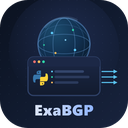
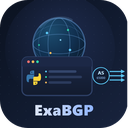
assets: 箭头改为从 AS 域发出，收拢为平行三路
- 新增 AS 域节点（圆形，标注 AS 65000）作为宣告起点
- 三条箭头收拢为平行同长，不再是散射状
- 控制台窗口略收窄，为 AS 节点与箭头让位

diff --git a/README.md b/README.md
@@ -172,4 +172,4 @@ docker run -d --name exabgp-v6 --network host \
 
 ---
 
-<sub>图标说明：地球经纬网格（区域 / 全球 IP 网段）+ 控制台窗口（WebUI，内含 Python 标识与待下发的路由条目）+ 右侧多条宣告箭头（逐条把 BGP UPDATE 播给 CE）+ 底部 ExaBGP 字标。源文件 `assets/icon.svg`，可直接用于文档、镜像标注与 favicon。</sub>
+<sub>图标说明：地球经纬网格（区域 / 全球 IP 网段）+ 控制台窗口（WebUI，内含 Python 标识与待下发的路由条目）+ `AS 65000` 域（箭头起点）+ 三条平行宣告箭头（逐条把 BGP UPDATE 播给 CE）+ 底部 ExaBGP 字标。源文件 `assets/icon.svg`，可直接用于文档、镜像标注与 favicon。</sub>
